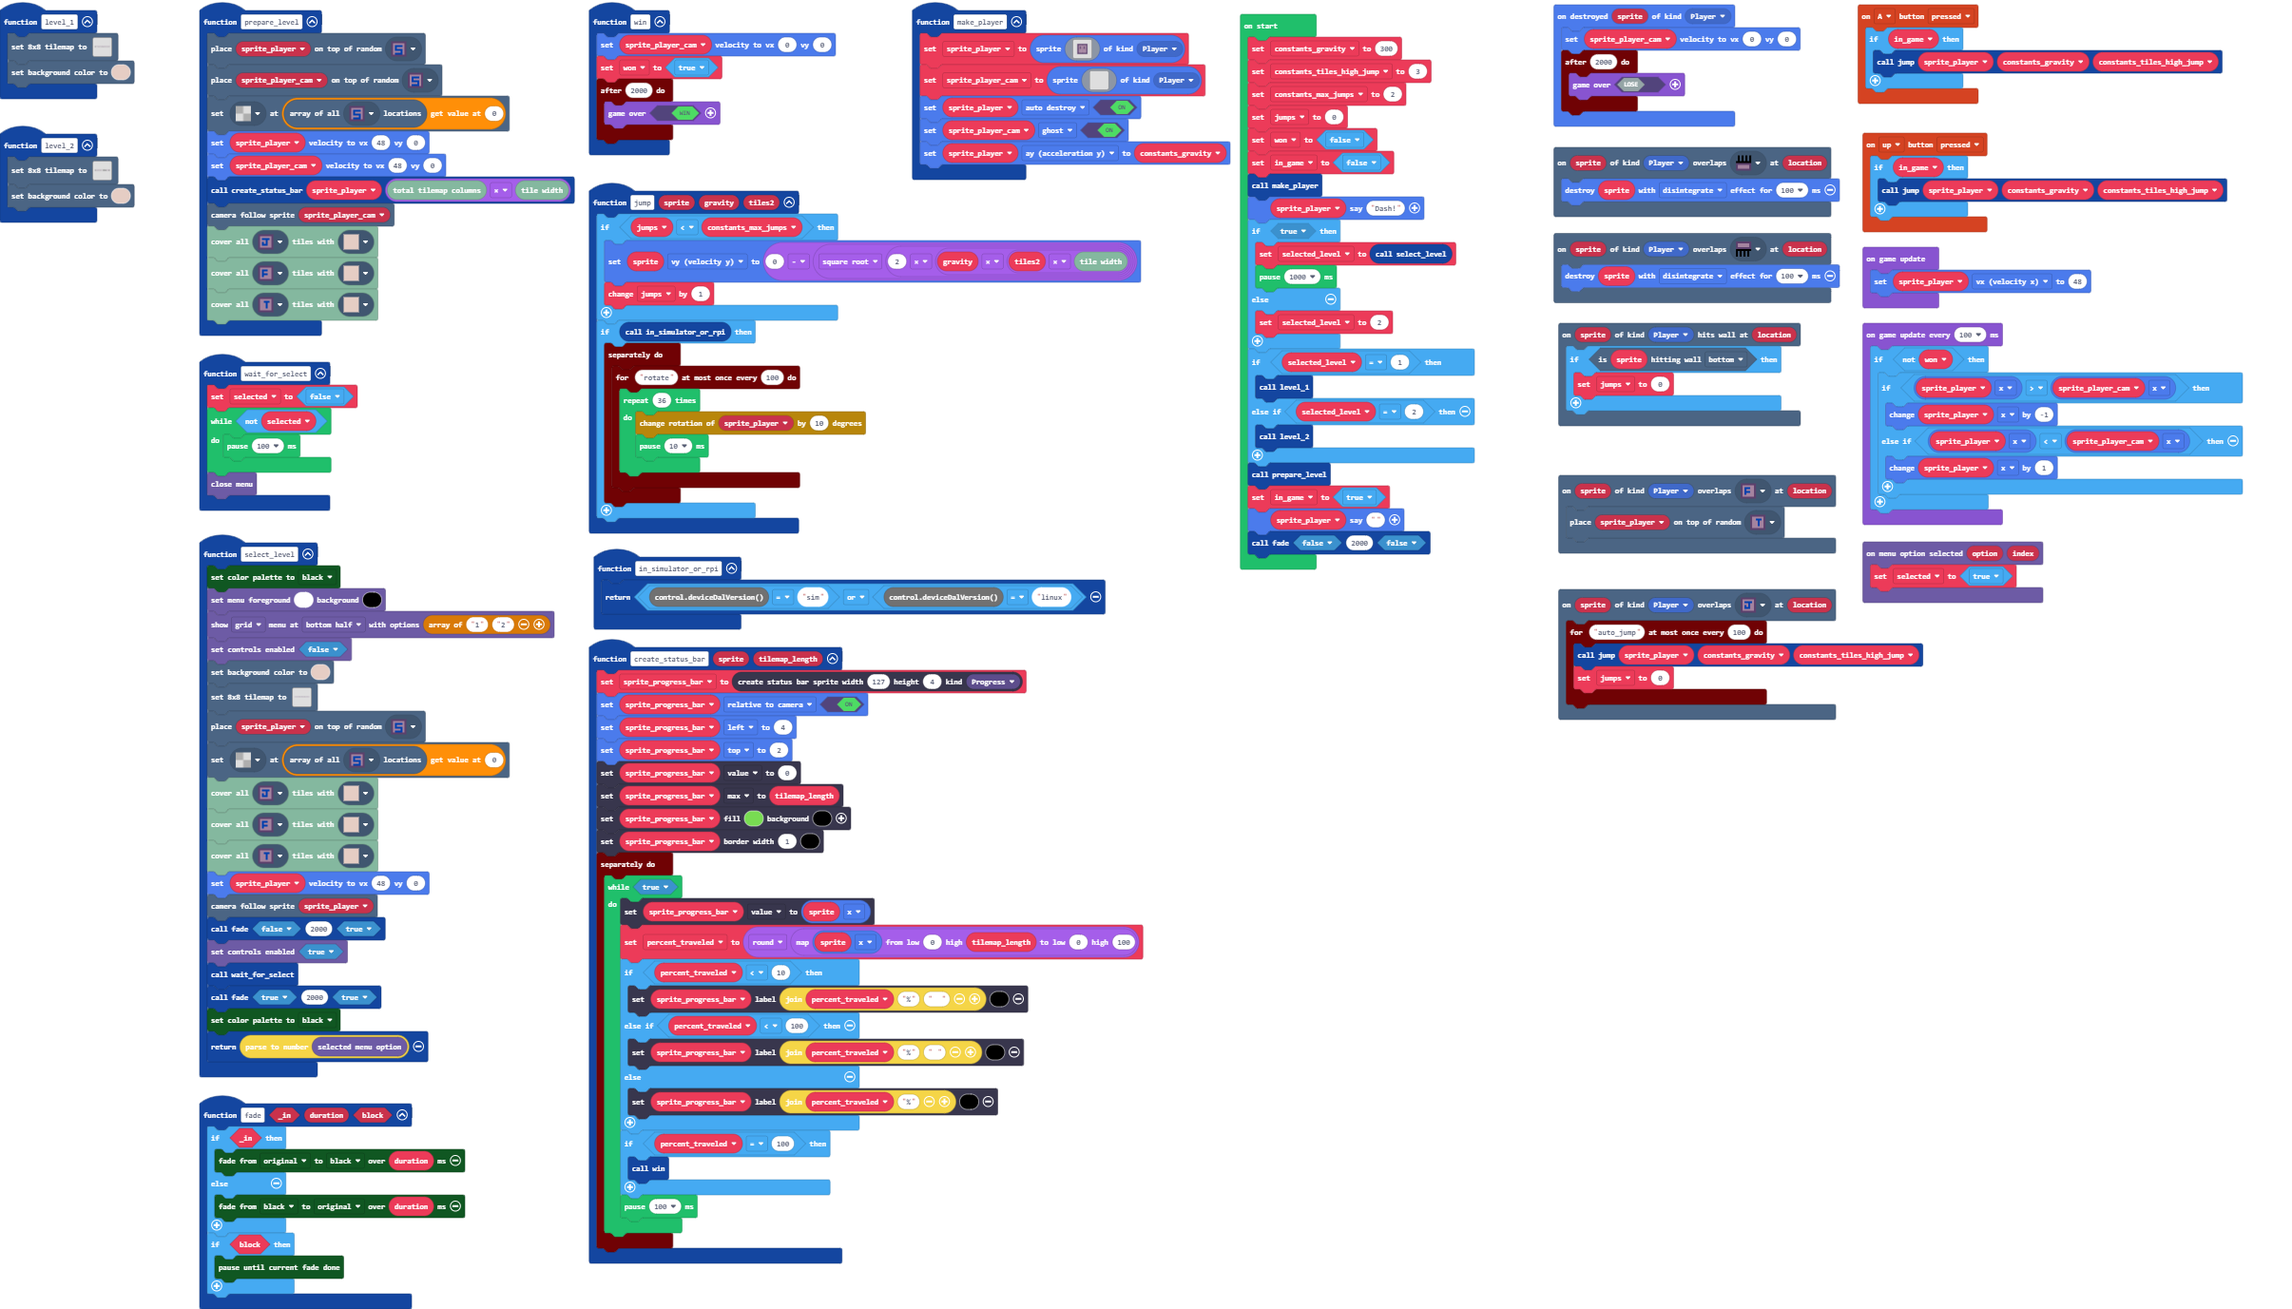
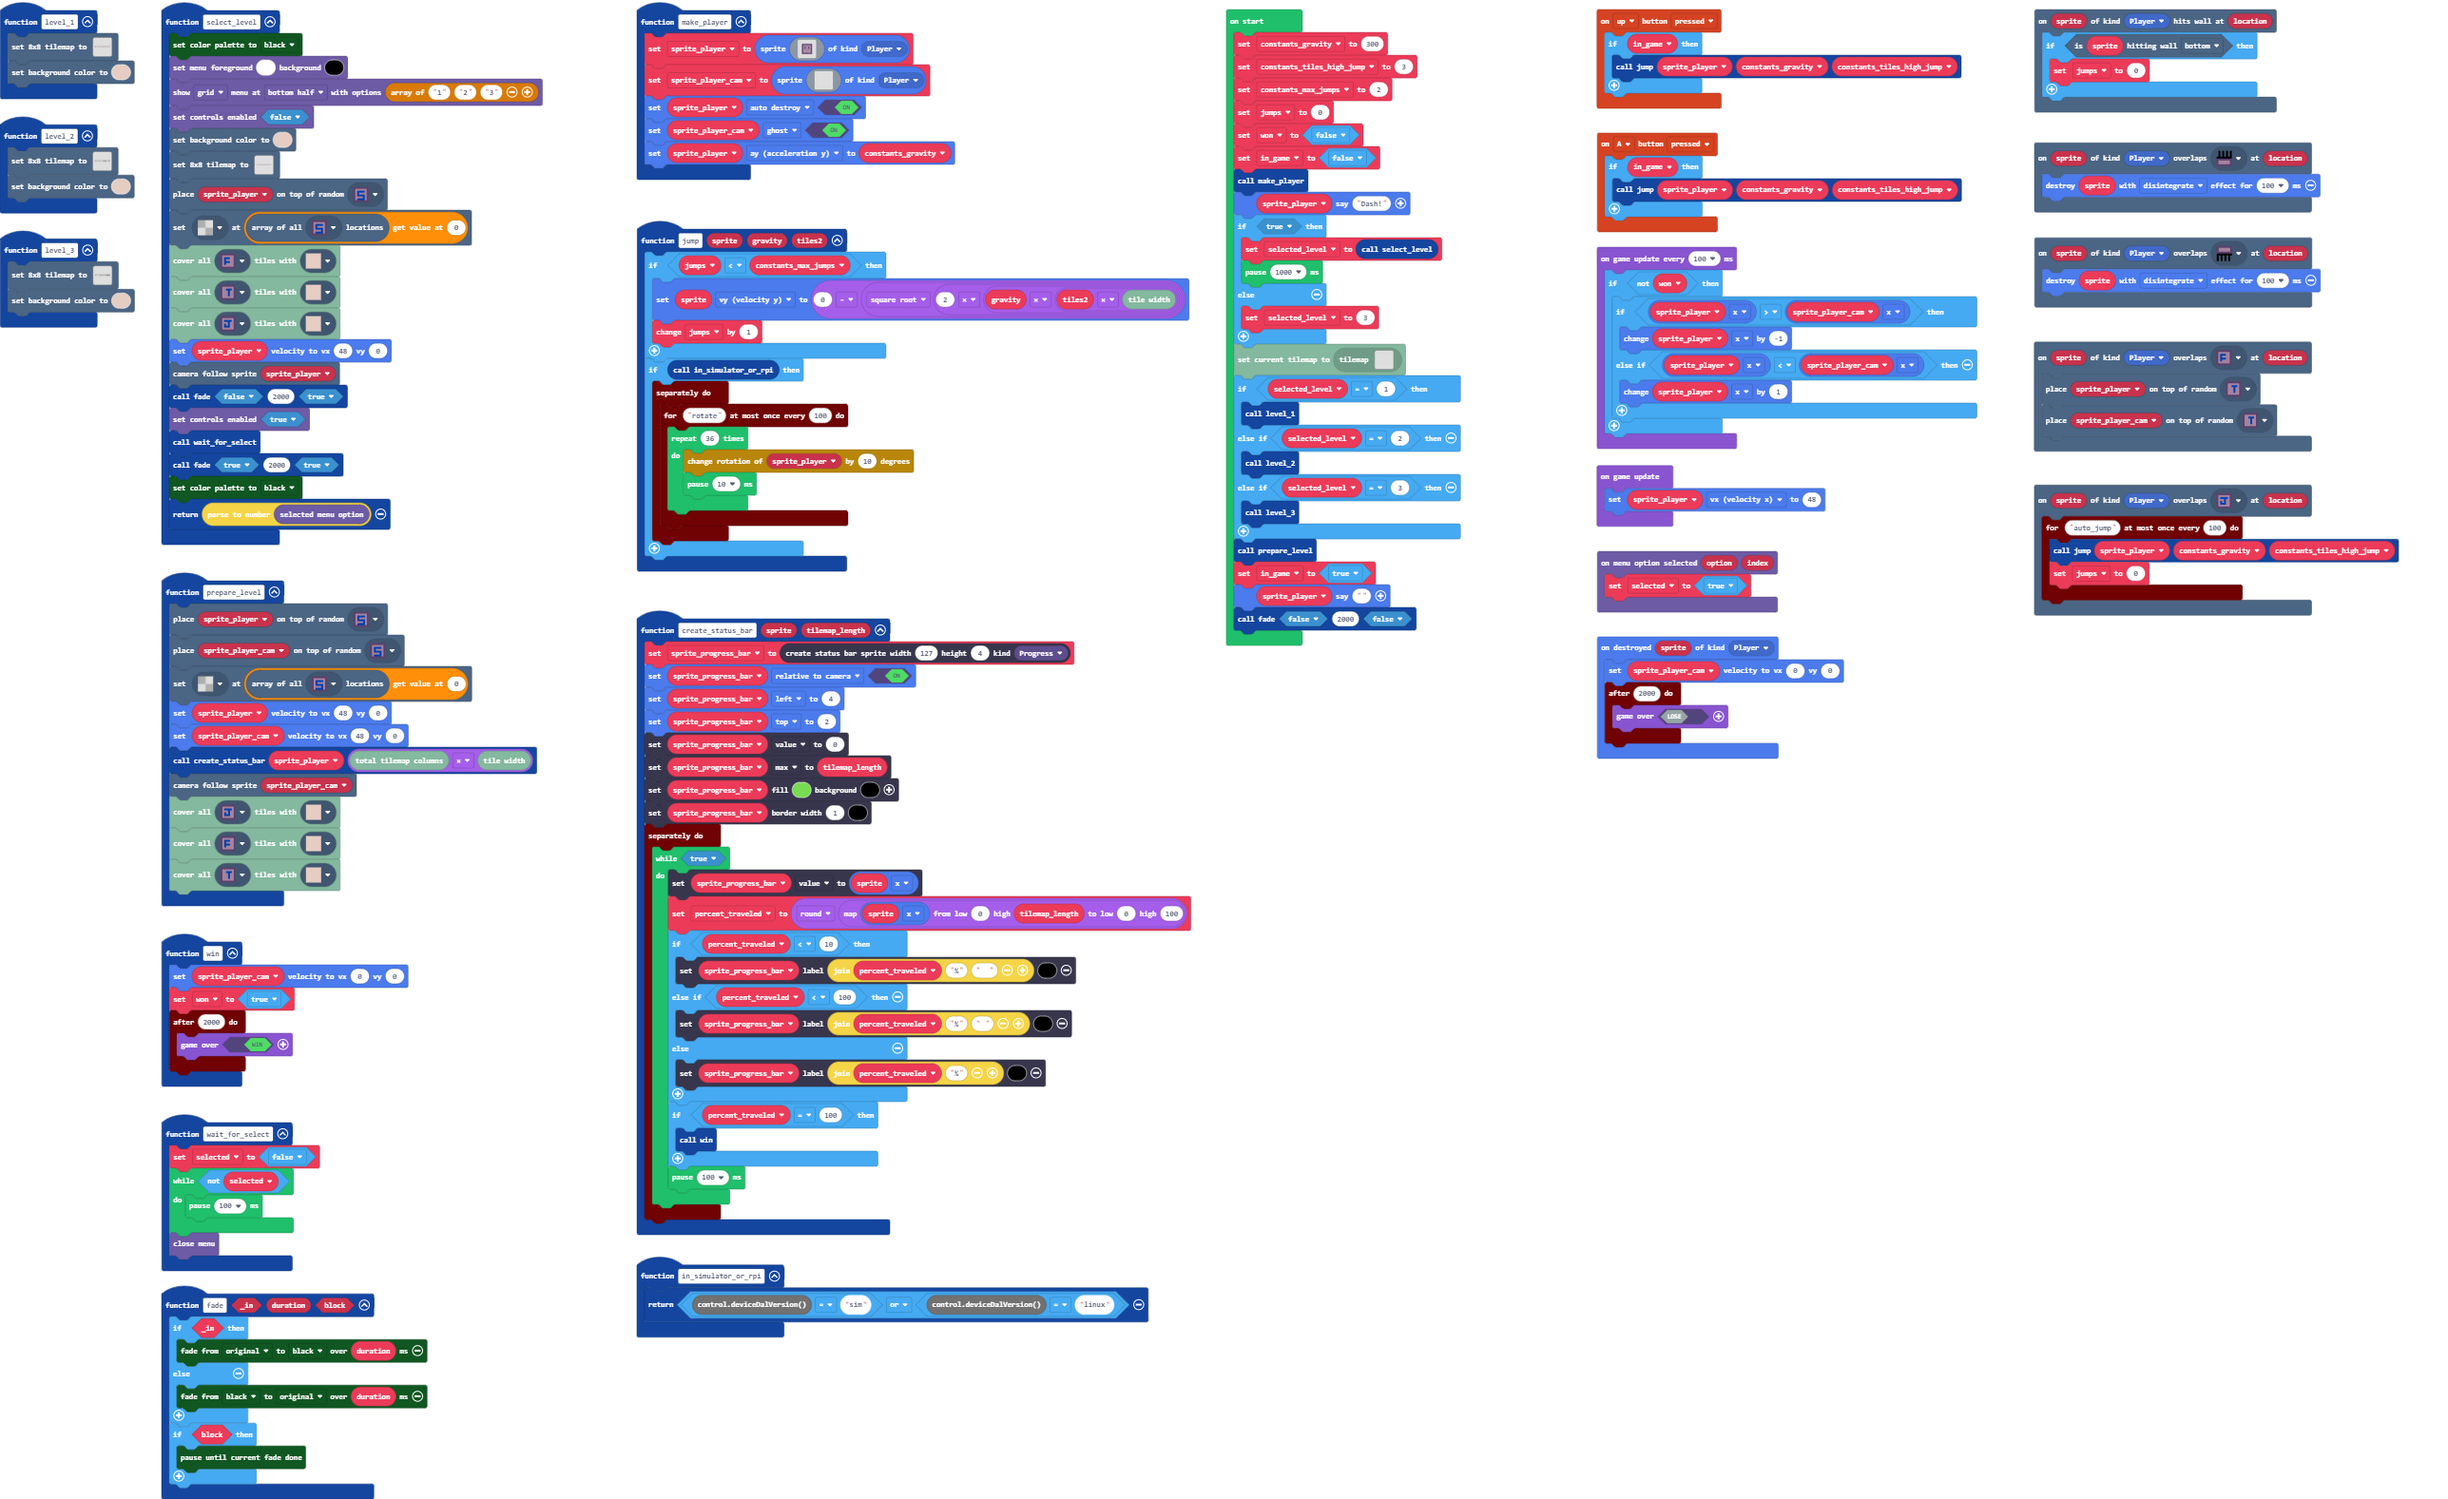
Add level 3

diff --git a/tilemap.g.ts b/tilemap.g.ts
@@ -199,6 +199,62 @@ namespace myTiles {
 . . . . . . . . . . . . . . . . 
 . . . . . . . . . . . . . . . . 
 `, [myTiles.transparency8], TileScale.Eight);
+            case "level10":
+            case "level10":return tiles.createTilemap(hex`1000100000000000000000000000000000000000000000000000000000000000000000000000000000000000000000000000000000000000000000000000000000000000000000000000000000000000000000000000000000000000000000000000000000000000000000000000000000000000000000000000000000000000000000000000000000000000000000000000000000000000000000000000000000000000000000000000000000000000000000000000000000000000000000000000000000000000000000000000000000000000000000000000000000000000000000000000000000000000000000000000000000000000000000000000000000000000`, img`
+. . . . . . . . . . . . . . . . 
+. . . . . . . . . . . . . . . . 
+. . . . . . . . . . . . . . . . 
+. . . . . . . . . . . . . . . . 
+. . . . . . . . . . . . . . . . 
+. . . . . . . . . . . . . . . . 
+. . . . . . . . . . . . . . . . 
+. . . . . . . . . . . . . . . . 
+. . . . . . . . . . . . . . . . 
+. . . . . . . . . . . . . . . . 
+. . . . . . . . . . . . . . . . 
+. . . . . . . . . . . . . . . . 
+. . . . . . . . . . . . . . . . 
+. . . . . . . . . . . . . . . . 
+. . . . . . . . . . . . . . . . 
+. . . . . . . . . . . . . . . . 
+`, [myTiles.transparency8], TileScale.Eight);
+            case "level_3":
[1 lines of base64/hex data omitted]
+222222222222222222222222..........................................2........2..........2......2......2......2.......2...2....2....2....2....2....2..22222222222222222222222222222222222222222222222222222
+222222222222222222222222..........................................2........2..........2......2......2......2.......2...2....2....2....2....2....2..22222222222222222222222222222222222222222222222222222
+222222222222222222222222..........................................2........2..........2......2......2......2.......2...2....2....2....2....2....2..22222222222222222222222222222222222222222222222222222
+222222222222222222222222..........................................2........2..........2......2......2......2.......2...2....2....2....2....2....2..22222222222222222222222222222222222222222222222222222
+222222222222222222222222......................222.................2...................2......2......2......2.......2...2....2....2....2....2.......22222222222222222222222222222222222222222222222222222
+.......................2....................2.....................2..22...222...22....2......2......2......2.......2...2....2....2....2.................................................................
+.......................2..................2.......................2...................2......2......2......222..2..2...2....2....2......................................................................
+.......................2................2.........................2.............................................2..2...2....2..................222.222..22222..22222..22222..22222..22222..22222..222222
+.......................2..............2...........................2.............................................2..2...2..................222......22222222222222222222222222222222222222222222222222222
+.......................2............2.............................2...................2..22..2..22..2..22..222222..2.................222...........22222222222222222222222222222222222222222222222222222
+222222222..............2..........2...............................2...................2......2......2......222222...............222................22222222222222222222222222222222222222222222222222222
+2222222222.............2........2.................................2..................22......2......2......222222..........222.....................22222222222222222222222222222222222222222222222222222
+22222222222...................2......................................................22......2......2......222222..2..222..........................22222222222222222222222222222222222222222222222222222
+222222222222................2.......................22....22....222222222222222222...22......2......2......222222..2...............................22222222222222222222222222222222222222222222222222222
+22222222222222222222...2222.......................................222222222222222222222......2......2......222222..2...............................22222222222222222222222222222222222222222222222222222
+`, [myTiles.transparency8,myTiles.tile1,myTiles.tile2,myTiles.tile3,myTiles.tile7,myTiles.tile8,myTiles.tile10,myTiles.tile11,myTiles.tile4,myTiles.tile5], TileScale.Eight);
+            case "level12":
+            case "level12":return tiles.createTilemap(hex`1000100000000000000000000000000000000000000000000000000000000000000000000000000000000000000000000000000000000000000000000000000000000000000000000000000000000000000000000000000000000000000000000000000000000000000000000000000000000000000000000000000000000000000000000000000000000000000000000000000000000000000000000000000000000000000000000000000000000000000000000000000000000000000000000000000000000000000000000000000000000000000000000000000000000000000000000000000000000000000000000000000000000000000000000000000000000000`, img`
+. . . . . . . . . . . . . . . . 
+. . . . . . . . . . . . . . . . 
+. . . . . . . . . . . . . . . . 
+. . . . . . . . . . . . . . . . 
+. . . . . . . . . . . . . . . . 
+. . . . . . . . . . . . . . . . 
+. . . . . . . . . . . . . . . . 
+. . . . . . . . . . . . . . . . 
+. . . . . . . . . . . . . . . . 
+. . . . . . . . . . . . . . . . 
+. . . . . . . . . . . . . . . . 
+. . . . . . . . . . . . . . . . 
+. . . . . . . . . . . . . . . . 
+. . . . . . . . . . . . . . . . 
+. . . . . . . . . . . . . . . . 
+. . . . . . . . . . . . . . . . 
+`, [myTiles.transparency16], TileScale.Sixteen);
         }
         return null;
     })

diff --git a/main.ts b/main.ts
@@ -73,6 +73,7 @@ function prepare_level () {
 }
 scene.onOverlapTile(SpriteKind.Player, assets.tile`from`, function (sprite, location) {
     tiles.placeOnRandomTile(sprite_player, assets.tile`to0`)
+    tiles.placeOnRandomTile(sprite_player_cam, assets.tile`to0`)
 })
 function level_2 () {
     tiles.setSmallTilemap(tilemap`level_2`)
@@ -96,15 +97,15 @@ function select_level () {
     color.Black
     )
     blockMenu.setColors(1, 15)
-    blockMenu.showMenu(["1", "2"], MenuStyle.Grid, MenuLocation.BottomHalf)
+    blockMenu.showMenu(["1", "2", "3"], MenuStyle.Grid, MenuLocation.BottomHalf)
     blockMenu.setControlsEnabled(false)
     scene.setBackgroundColor(13)
     tiles.setSmallTilemap(tilemap`demo`)
     tiles.placeOnRandomTile(sprite_player, assets.tile`start`)
     tiles.setTileAt(tiles.getTilesByType(assets.tile`start`)[0], assets.tile`transparency8`)
-    tiles.coverAllTiles(assets.tile`auto_jump`, assets.tile`blank`)
     tiles.coverAllTiles(assets.tile`from`, assets.tile`blank`)
     tiles.coverAllTiles(assets.tile`to0`, assets.tile`blank`)
+    tiles.coverAllTiles(assets.tile`auto_jump`, assets.tile`blank`)
     sprite_player.setVelocity(48, 0)
     scene.cameraFollowSprite(sprite_player)
     fade(false, 2000, true)
@@ -162,6 +163,10 @@ function level_1 () {
     tiles.setSmallTilemap(tilemap`level_1`)
     scene.setBackgroundColor(13)
 }
+function level_3 () {
+    tiles.setSmallTilemap(tilemap`level_3`)
+    scene.setBackgroundColor(13)
+}
 let selected = false
 let percent_traveled = 0
 let sprite_progress_bar: StatusBarSprite = null
@@ -186,12 +191,15 @@ if (true) {
     selected_level = select_level()
     pause(1000)
 } else {
-    selected_level = 2
+    selected_level = 3
 }
+tiles.loadMap(tiles.createMap(tilemap`level12`))
 if (selected_level == 1) {
     level_1()
 } else if (selected_level == 2) {
     level_2()
+} else if (selected_level == 3) {
+    level_3()
 }
 prepare_level()
 in_game = true
